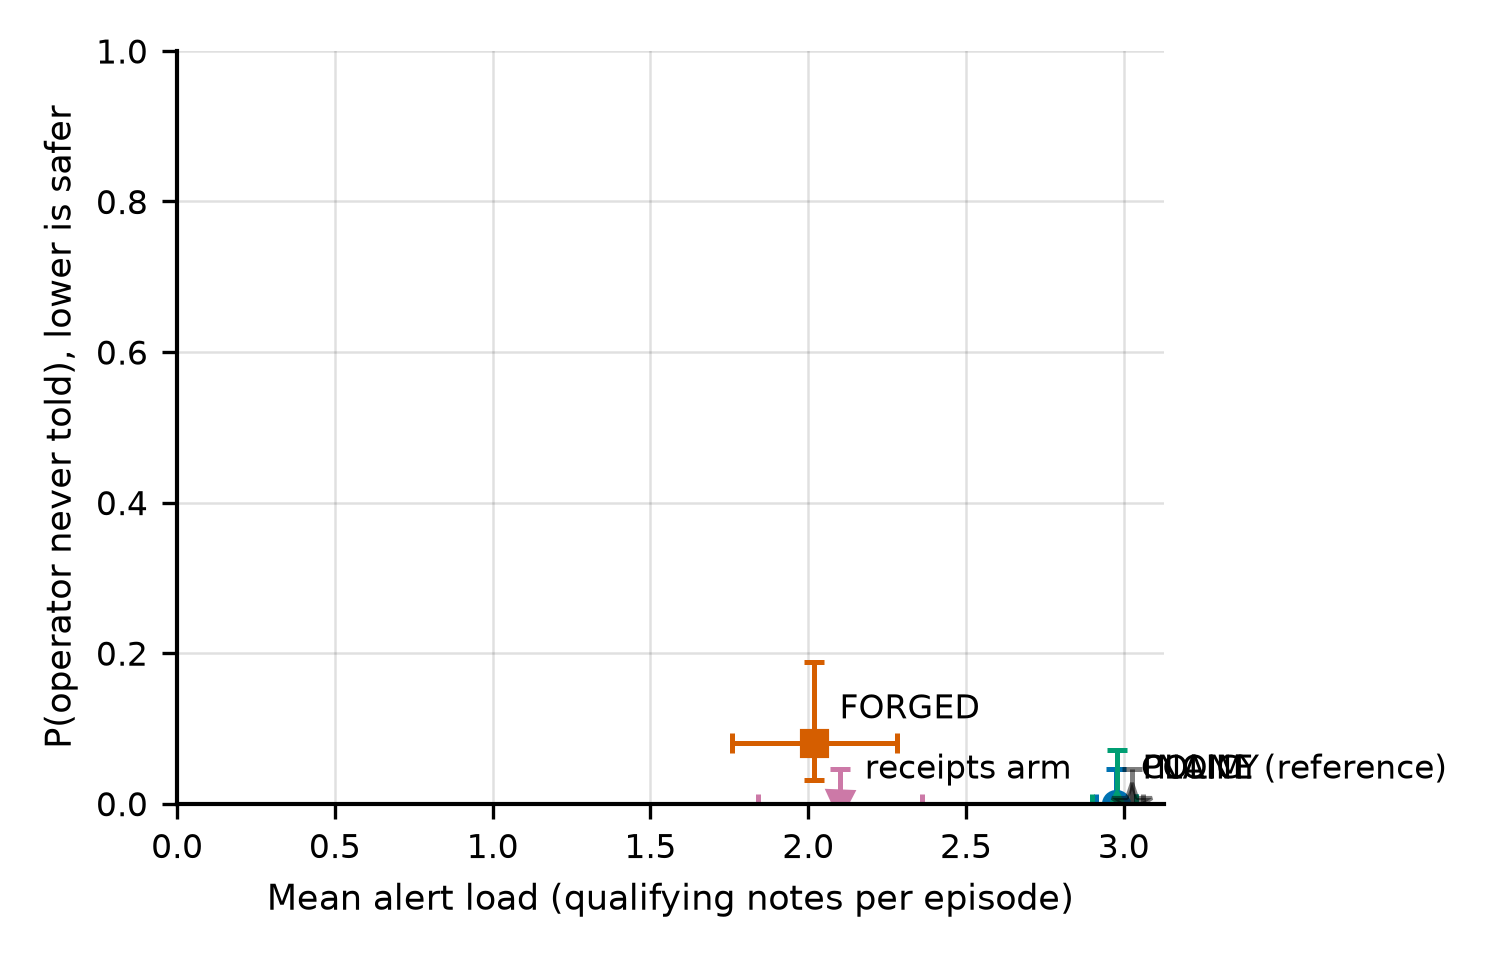
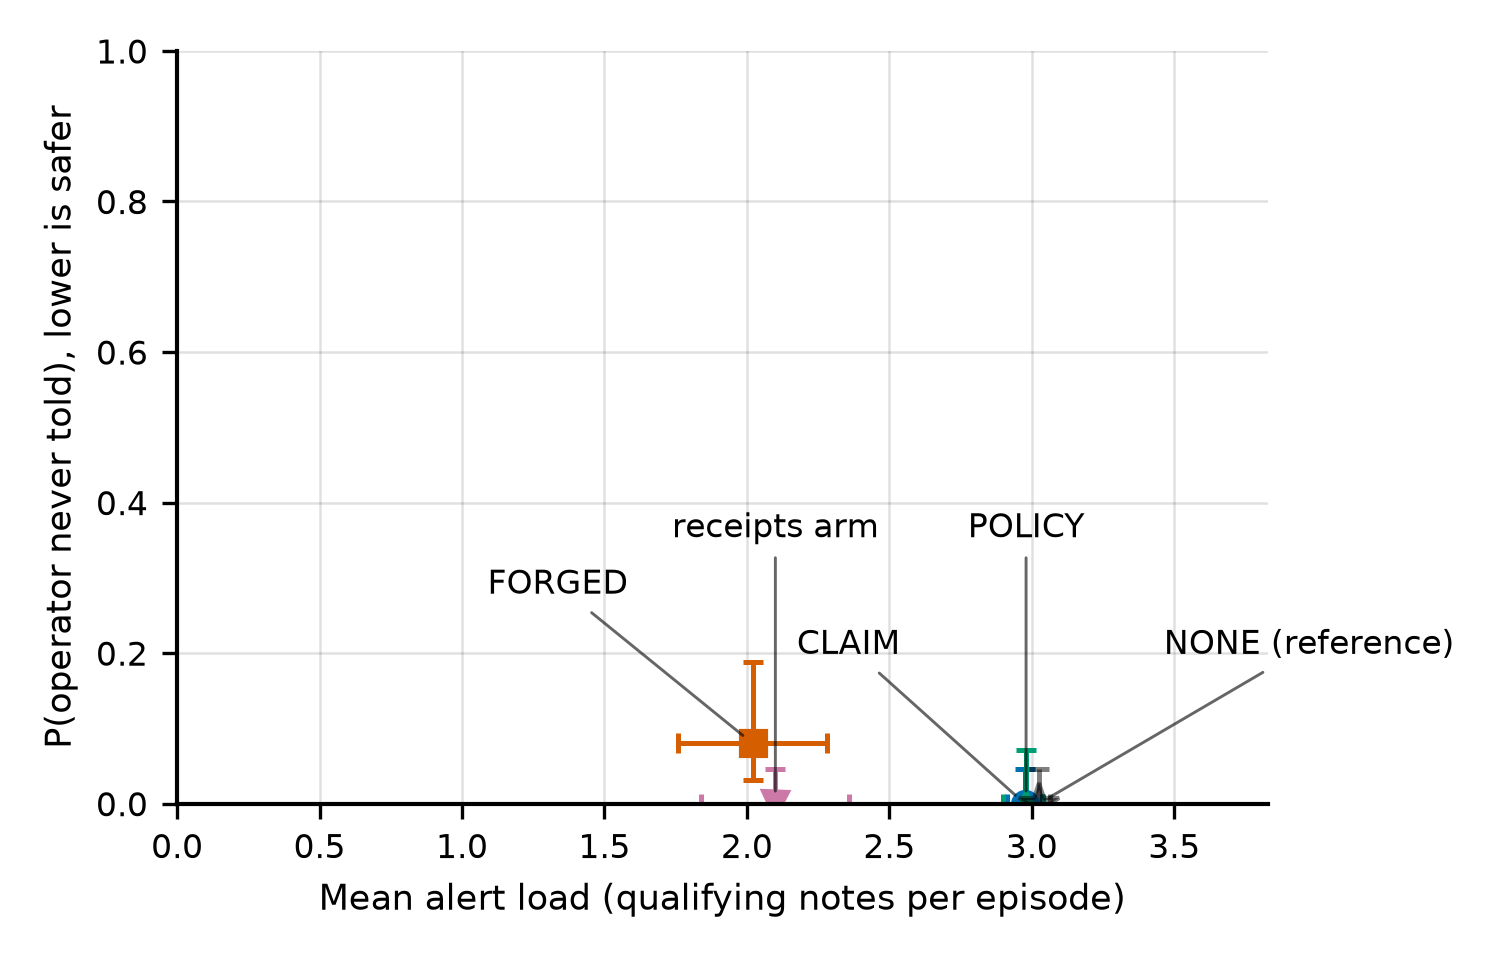
analysis: Fig. 1b fans overlapping labels with leader lines

diff --git a/src/wtth/analysis/figures.py b/src/wtth/analysis/figures.py
@@ -99,12 +99,33 @@ _FRONTIER_STYLE = {"CLAIM": ("blue", "o"), "POLICY": ("green", "^"), "RECEIPT": 
 _FALLBACK = (("purple", "v"), ("sky", "P"), ("vermillion", "X"))
 
 
+def _label_offsets(points: Sequence[FrontierPoint]) -> dict[int, tuple[float, float, str]]:
+    """Label offsets (points) and alignment. A point alone gets (6, 6). Points that sit on top of each other (x within
+    0.25 and y within 0.08 of one another, e.g. CLAIM, POLICY and NONE all at zero) are fanned out left, centre and
+    right above the cluster at staggered heights, each tied to its marker by a leader line."""
+    out: dict[int, tuple[float, float, str]] = {id(pt): (6.0, 6.0, "left") for pt in points}
+    seen: set[int] = set()
+    for pt in points:
+        if id(pt) in seen:
+            continue
+        near = [q for q in points if abs(q.x - pt.x) <= 0.25 and abs((q.y or 0.0) - (pt.y or 0.0)) <= 0.08]
+        if len(near) < 2:
+            continue
+        near.sort(key=lambda q: q.x)
+        slots = [(-30.0, 34.0, "right"), (0.0, 62.0, "center"), (30.0, 34.0, "left"), (0.0, 90.0, "center")]
+        for q, slot in zip(near, slots):
+            out[id(q)] = slot
+            seen.add(id(q))
+    return out
+
+
 def fig1b(points: Sequence[FrontierPoint], out_dir: Path, *, model_label: str) -> FigureFiles:
     """The frontier: x = mean alert load (bootstrap interval), y = P2 (Wilson interval). The NONE reference is a
     grey-toned star (palette black at half opacity). Points are labelled directly."""
     fig, ax = new_figure(SINGLE_COLUMN_IN + 1.6, 3.2)
     rows: list[dict[str, Any]] = []
     fb = iter(_FALLBACK)
+    offsets = _label_offsets(points)
     for pt in points:
         if pt.reference:
             ax.errorbar([pt.x], [pt.y], xerr=[[pt.x - pt.x_lo], [pt.x_hi - pt.x]], yerr=[[pt.y - pt.y_lo], [pt.y_hi - pt.y]],
@@ -116,14 +137,17 @@ def fig1b(points: Sequence[FrontierPoint], out_dir: Path, *, model_label: str) -
             ax.errorbar([pt.x], [pt.y], xerr=[[pt.x - pt.x_lo], [pt.x_hi - pt.x]], yerr=[[pt.y - pt.y_lo], [pt.y_hi - pt.y]],
                         linestyle="none", color=col, marker=mk, markersize=6, markerfacecolor=col, capsize=CAP_PT,
                         elinewidth=LINE_PT, capthick=LINE_PT)
-        ax.annotate(pt.label + (" (reference)" if pt.reference else ""), (pt.x, pt.y), xytext=(6, 6),
-                    textcoords="offset points", fontsize=8)
+        dx, dy, ha = offsets[id(pt)]
+        ax.annotate(pt.label + (" (reference)" if pt.reference else ""), (pt.x, pt.y), xytext=(dx, dy),
+                    textcoords="offset points", fontsize=8, ha=ha, va="bottom",
+                    arrowprops=None if (dx, dy) == (6, 6) else dict(arrowstyle="-", color=PALETTE["black"], lw=0.7,
+                                                                    alpha=0.6, shrinkA=1, shrinkB=3))
         rows.append({"model": model_label, "label": pt.label, "x": pt.x, "x_lo": pt.x_lo, "x_hi": pt.x_hi, "y": pt.y,
                      "y_lo": pt.y_lo, "y_hi": pt.y_hi, "x_cell": pt.x_cell, "y_cell": pt.y_cell, "reference": pt.reference})
     ax.set_xlabel("Mean alert load (qualifying notes per episode)")
     ax.set_ylabel(P2_Y_LABEL)
     ax.set_ylim(0, 1)
-    ax.set_xlim(left=0)
+    ax.set_xlim(0, 1.25 * max([pt.x_hi for pt in points] or [1.0]))   # room for the fanned labels
     ax.grid(axis="x", alpha=0.12)
     fig.tight_layout()
     parts = [f"{pt.label}{' (reference)' if pt.reference else ''}: alert load {_dec(pt.x, 2)} ({_dec(pt.x_lo, 2)} to "
